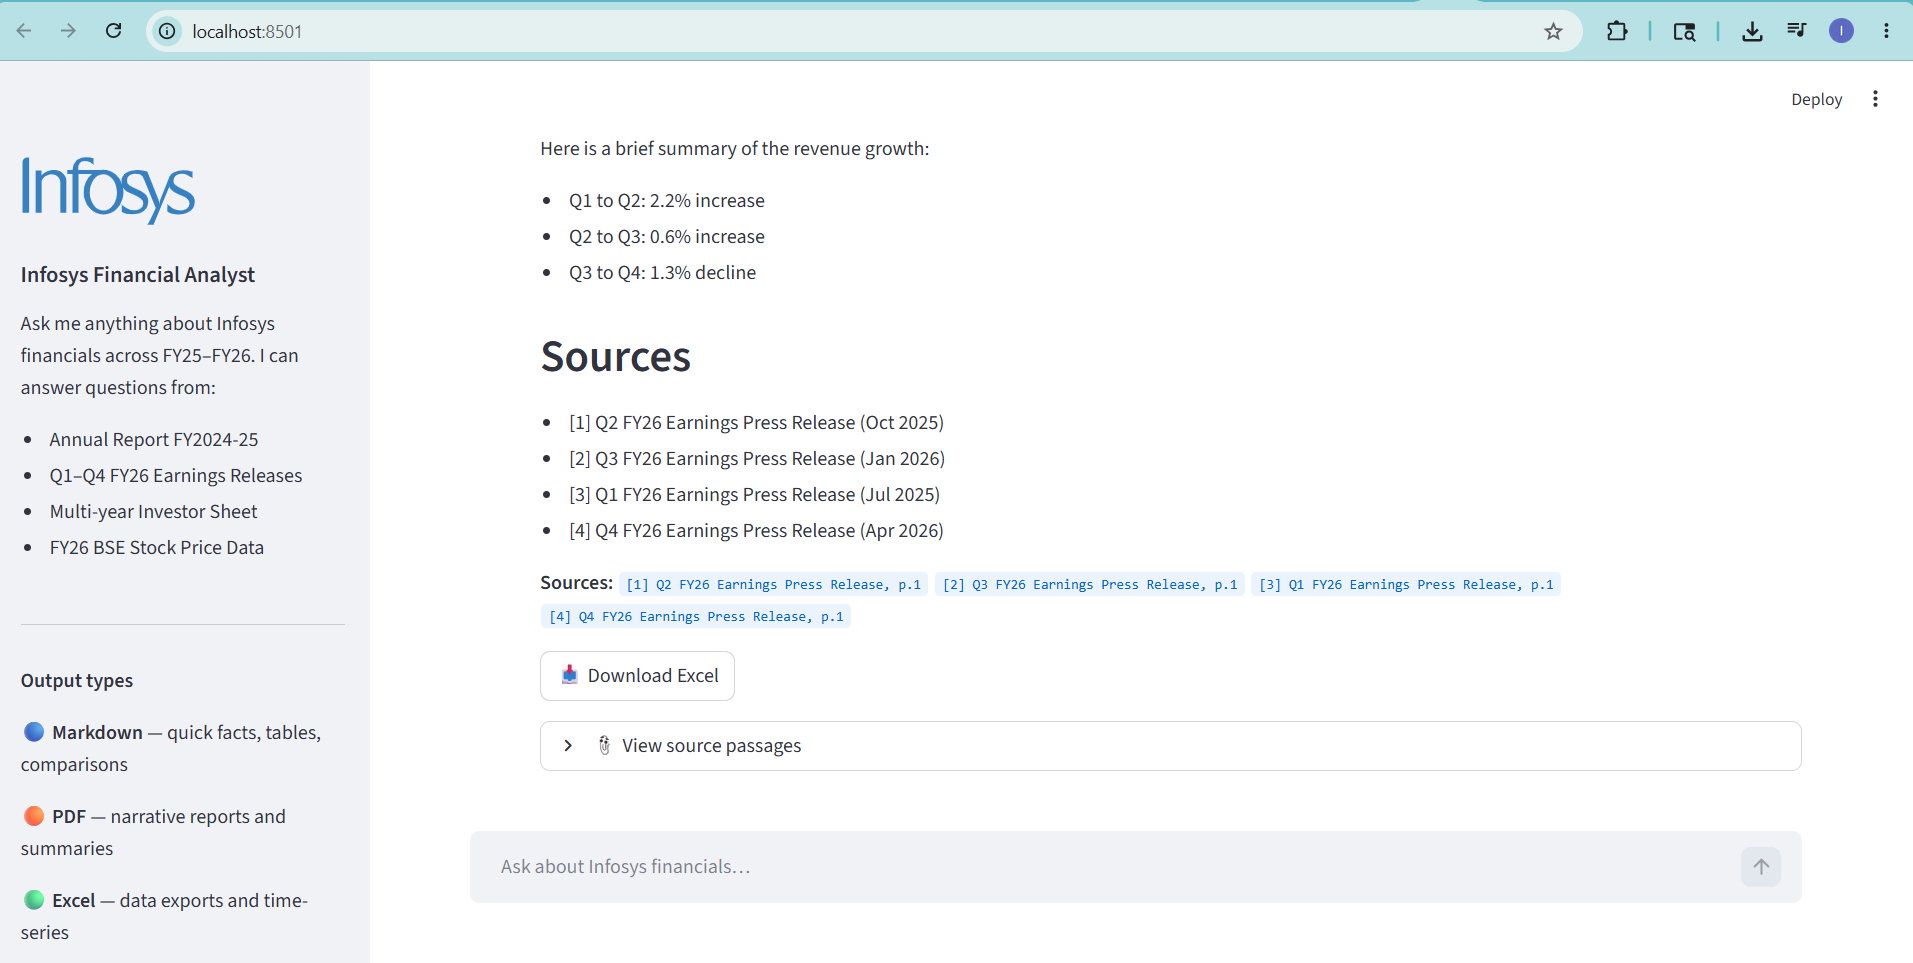
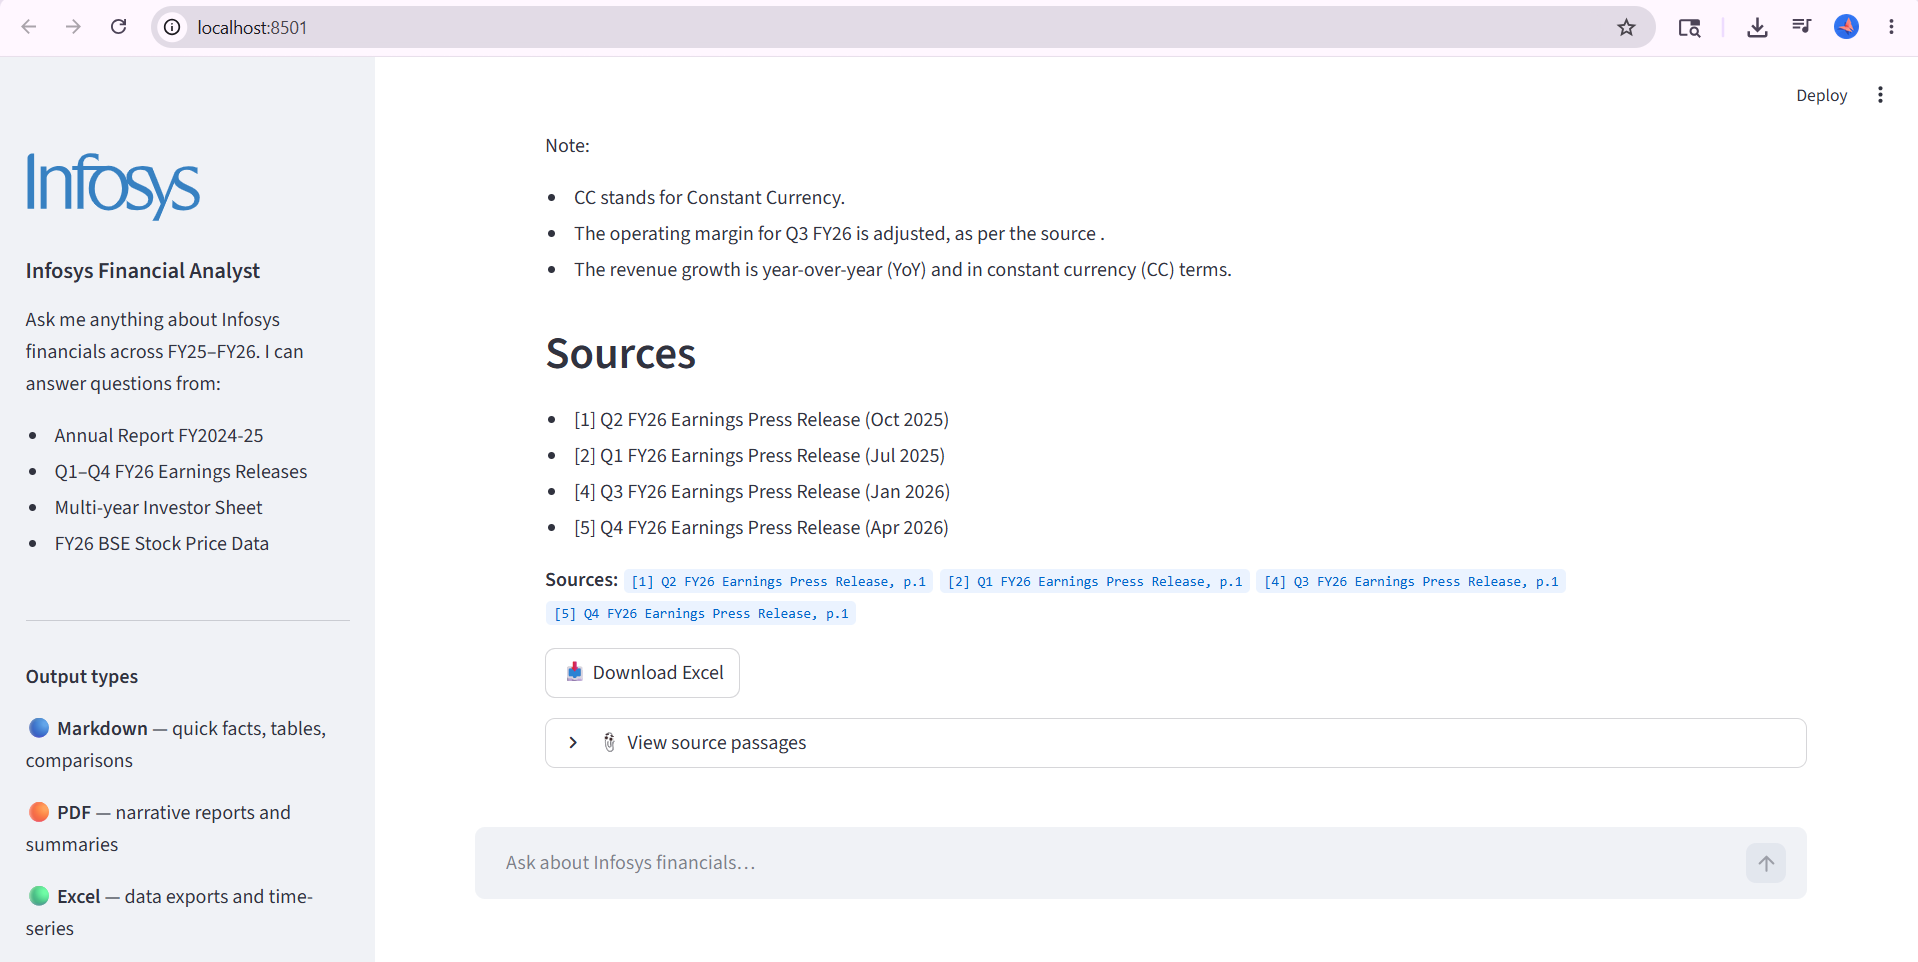
added excel results

diff --git a/formatters.py b/formatters.py
@@ -472,6 +472,9 @@ def generate_excel(response: EngineResponse, query: str) -> Path:
     2. Write each table to its own sheet.
     3. Add an "About" sheet with the original query and source list.
     """
+    
+    
+
     sheets_data = _extract_excel_data(response.answer)
 
     wb = openpyxl.Workbook()